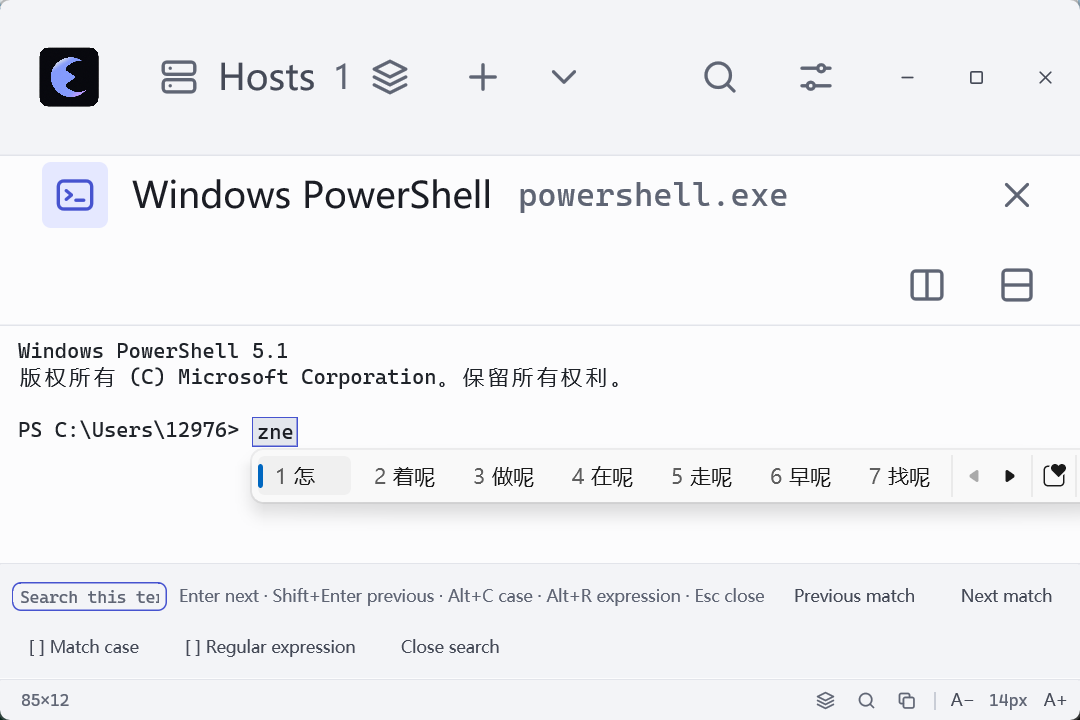
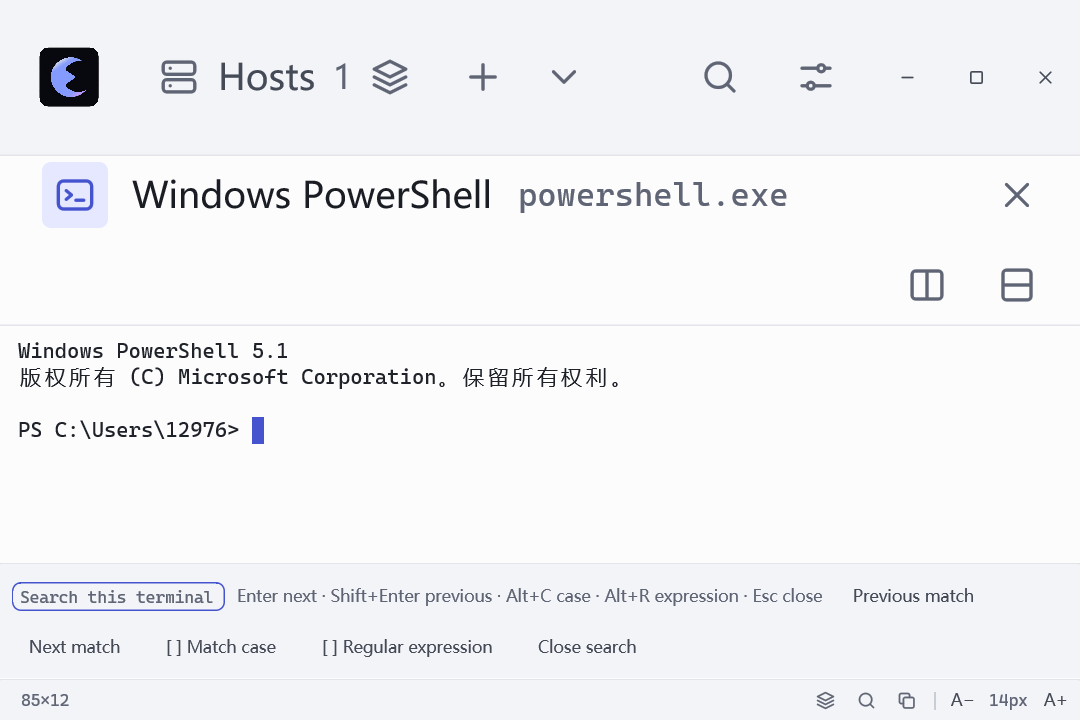
fix: 让最小窗口的搜索框和失败说明保持完整
Sakullla-Task: T1
Sakullla-Attempt: T1-A13

diff --git a/src/app/view/shell.rs b/src/app/view/shell.rs
@@ -1685,10 +1685,12 @@ impl ShelluneView {
     ) -> Div {
         let metrics = self.metrics();
         let viewport = window.viewport_size();
-        let width = metrics
-            .scale(width)
-            .min(viewport.width - metrics.scale(spacing::LOOSE) * 2.0);
-        let max_height = viewport.height - metrics.scale(spacing::LOOSE) * 2.0;
+        // The inset stays a small edge gap. Scaling it with the text turned a 200%
+        // minimum window into a short dialog, and the failure's next line was drawn
+        // past the client edge where it could not be read (R4).
+        let margin = metrics.scale(spacing::LOOSE).min(px(16.0));
+        let width = metrics.scale(width).min(viewport.width - margin * 2.0);
+        let max_height = viewport.height - margin * 2.0;
         let dialog = div()
             .id(id)
             .debug_selector(move || id.to_owned())
@@ -1886,9 +1888,7 @@ impl ShelluneView {
                 .pb(metrics.scale(spacing::LOOSE))
                 .child(self.quick_panel(cx))
                 .into_any_element();
-            return Some(self.modal(
-                window, "quick.dialog", 520.0, header, subtitle, body, None,
-            ));
+            return Some(self.modal(window, "quick.dialog", 520.0, header, subtitle, body, None));
         }
         if !(self.showing_connection_form && self.remote.is_some()) {
             return None;
@@ -1898,10 +1898,10 @@ impl ShelluneView {
         let (status_label, tone) = super::remote_status_label(panel.status(), strings);
         // The hint is about choosing a sign-in; while the server asks a question or
         // the connection runs, it would only be in the way.
-        let choosing = matches!(
-            panel.status(),
-            crate::app::remote::RemoteStatus::Idle | crate::app::remote::RemoteStatus::Failed(_)
-        );
+        // A failure already says what happened and what to do next. The sign-in hint
+        // on top of it pushed that next line past the window (R4).
+        let choosing = matches!(panel.status(), crate::app::remote::RemoteStatus::Idle);
+        let failed = matches!(panel.status(), crate::app::remote::RemoteStatus::Failed(_));
         let (header, subtitle) = self.modal_header_with(
             None,
             format!("{} {}", ux.connect_title, host.name()),
@@ -1916,15 +1916,22 @@ impl ShelluneView {
             .w_full()
             .items_start()
             .pl(metrics.scale(spacing::LOOSE))
+            .child(div().pt(metrics.scale(spacing::SNUG)).child(host_avatar(
+                host.name(),
+                false,
+                metrics,
+            )))
             .child(
-                div()
-                    .pt(metrics.scale(spacing::SNUG))
-                    .child(host_avatar(host.name(), false, metrics)),
-            )
-            .child(header.flex_1().min_w(px(0.0)).pl(metrics.scale(spacing::SNUG)));
+                header
+                    .flex_1()
+                    .min_w(px(0.0))
+                    .pl(metrics.scale(spacing::SNUG)),
+            );
         let body = div()
             .flex()
             .flex_col()
+            .w_full()
+            .min_w(px(0.0))
             .gap(metrics.scale(spacing::SNUG))
             .px(metrics.scale(spacing::LOOSE))
             .pb(metrics.scale(spacing::LOOSE))
@@ -1940,8 +1947,9 @@ impl ShelluneView {
             .child(self.other_attempts(cx))
             .into_any_element();
         // A connection that is already running can go on without the dialog: it keeps
-        // its tab, and clicking that tab brings the dialog back.
-        let footer = self.form_session.is_some().then(|| {
+        // its tab, and clicking that tab brings the dialog back. A failure is finished,
+        // so that button would only take the room the reason and the next step need.
+        let footer = (self.form_session.is_some() && !failed).then(|| {
             div()
                 .flex()
                 .justify_end()
@@ -1958,7 +1966,13 @@ impl ShelluneView {
                 ))
         });
         Some(self.modal(
-            window, "remote.dialog", 600.0, header, subtitle, body, footer,
+            window,
+            "remote.dialog",
+            600.0,
+            header,
+            subtitle,
+            body,
+            footer,
         ))
     }
 
@@ -2139,9 +2153,7 @@ impl ShelluneView {
                         cx,
                     ))
                     .into_any_element();
-                Some(self.modal(
-                    window, "forwards.dialog", 680.0, header, hint, body, None,
-                ))
+                Some(self.modal(window, "forwards.dialog", 680.0, header, hint, body, None))
             }
             Tool::Transfers => {
                 let (header, subtitle) = self.modal_header(

diff --git a/src/app/tests.rs b/src/app/tests.rs
@@ -3060,6 +3060,16 @@ async fn the_find_bar_stays_inside_the_window_at_two_hundred_percent(cx: &mut Te
     );
 
     click(cx, "terminal.search");
+    cx.run_until_parked();
+    let query = bounds_of(cx, "terminal.search.query");
+    // The find bar uses the terminal metrics, which stay at the regular size.
+    let placeholder = px("Search this terminal".chars().count() as f32
+        * (Metrics::new(Zoom::Regular).caption_size() / px(1.0))
+        * shellune_terminal::MONOSPACE_ADVANCE_RATIO);
+    assert!(
+        query.size.width + px(1.0) >= placeholder,
+        "the empty search field cuts the placeholder through a word: {query:?} needs {placeholder:?}"
+    );
     cx.simulate_input("ready");
     cx.run_until_parked();
     assert_eq!(
@@ -5822,6 +5832,70 @@ async fn an_attempt_that_fails_shows_the_reason_and_opens_no_terminal(cx: &mut T
                 .iter()
                 .any(|recent| recent.connections() > 0),
             "a failed attempt is not a recent connection"
+        );
+    });
+}
+
+/// A hop rejection names the host and then the credential error.
+///
+/// That sentence is wider than one line of a 720×480 window at 200% text. It has to
+/// wrap inside the dialog, and both it and the next step have to be inside the
+/// window: the previous line used to end at "offered" and the rest was past the
+/// client edge (R4).
+#[gpui::test]
+async fn a_rejected_hop_reason_and_its_next_step_fit_the_minimum_window(cx: &mut TestAppContext) {
+    let dir = TempDir::new("remote-hop-reason");
+    seed(
+        &dir.store(),
+        vec![stored_host("lan109", "192.168.0.109", 22, "root", None)],
+    );
+    let (view, cx) = hosts_view_with_trust(cx, &dir);
+    click(cx, "hosts.connect.0");
+    cx.simulate_resize(minimum_window());
+    largest_text_size(&view, cx);
+    cx.update(|_window, app| {
+        view.update(app, |view, cx| {
+            let host = view.book().hosts()[0].clone();
+            let failure = shellune_ssh::ChainFailure::Hop {
+                hop: Box::new(shellune_ssh::HopLocation {
+                    host_id: host.id(),
+                    index: 0,
+                    name: host.name().to_owned(),
+                    address: host.address().to_owned(),
+                    port: host.port().get(),
+                    user: host.user().to_owned(),
+                }),
+                error: Box::new(shellune_ssh::ConnectError::AuthRejected),
+            };
+            view.fail_chain_for_test(failure, cx);
+        });
+    });
+    cx.run_until_parked();
+
+    let viewport = cx.update(|window, _app| window.viewport_size());
+    let reason = bounds_of(cx, "remote.failure.reason");
+    let next = bounds_of(cx, "remote.failure.next");
+    assert_fits_inside(reason, viewport, "remote.failure.reason");
+    assert_fits_inside(next, viewport, "remote.failure.next");
+    assert!(
+        reason.size.height > px(36.0),
+        "the hop reason stayed on one line, which is how the window used to cut it: {reason:?}"
+    );
+    cx.update(|_window, app| {
+        let failure = view
+            .read(app)
+            .remote_state()
+            .and_then(|panel| panel.status().failure().cloned())
+            .expect("the dialog is showing the hop failure");
+        assert!(
+            failure.reason().contains("credentials"),
+            "the reason is the full rejection: {}",
+            failure.reason()
+        );
+        assert!(
+            failure.next_step().contains("authentication method"),
+            "the next step is still the credential one: {}",
+            failure.next_step()
         );
     });
 }

diff --git a/src/app/view.rs b/src/app/view.rs
@@ -5123,6 +5123,27 @@ impl ShelluneView {
         self.on_remote_failed(id, &error, cx);
     }
 
+    /// Records a jump-chain failure through the same path a hop uses.
+    ///
+    /// The chain text names the hop. A direct [`ConnectError`] does not, and that
+    /// longer line is what a 720×480 window at 200% text used to cut off.
+    #[cfg(test)]
+    pub(crate) fn fail_chain_for_test(
+        &mut self,
+        failure: shellune_ssh::ChainFailure,
+        cx: &mut Context<Self>,
+    ) {
+        let Some(host) = self.remote.as_ref().map(|panel| panel.host().clone()) else {
+            return;
+        };
+        let id = match self.reconnect.take() {
+            Some(id) => id,
+            None => self.workspace.register_remote_session(&host).id(),
+        };
+        self.form_session = Some(id);
+        self.on_chain_failed(id, &failure, cx);
+    }
+
     /// Tries again with whatever the form holds now.
     fn retry_remote(&mut self, cx: &mut Context<Self>) {
         if let Some(panel) = self.remote.as_mut() {
@@ -5881,7 +5902,7 @@ impl ShelluneView {
             column = column.child(
                 components::banner(Tone::Danger, metrics)
                     .gap(metrics.scale(spacing::HAIRLINE + 2.0))
-                    .py(metrics.scale(spacing::SNUG))
+                    .py(metrics.scale(spacing::HAIRLINE))
                     .debug_selector(|| "remote.failure".to_owned())
                     .child(
                         div()
@@ -5892,6 +5913,9 @@ impl ShelluneView {
                     )
                     .child(
                         div()
+                            .w_full()
+                            .min_w(px(0.0))
+                            .whitespace_normal()
                             .text_size(metrics.caption_size())
                             .text_color(theme::swatch(palette::TEXT_PRIMARY))
                             .debug_selector(|| "remote.failure.reason".to_owned())
@@ -5899,6 +5923,9 @@ impl ShelluneView {
                     )
                     .child(
                         div()
+                            .w_full()
+                            .min_w(px(0.0))
+                            .whitespace_normal()
                             .text_size(metrics.caption_size())
                             .text_color(theme::swatch(palette::TEXT_SECONDARY))
                             .debug_selector(|| "remote.failure.next".to_owned())

diff --git a/src/app/terminal.rs b/src/app/terminal.rs
@@ -2734,6 +2734,17 @@ impl TerminalPane {
 
         let focused = self.search_focused;
         let accent = theme::swatch(shell_palette::ACCENT);
+        // The placeholder is a sentence. A field that shrinks to a few letters and
+        // then truncates cuts it through a word ("Search this te"), and the pane
+        // has no other place that text is written (R4).
+        let caption = metrics.caption_size();
+        let proportional =
+            crate::app::components::reserved_text_width(strings.terminal_search, caption);
+        let mono = px(strings.terminal_search.chars().count() as f32
+            * (caption / px(1.0))
+            * shellune_terminal::MONOSPACE_ADVANCE_RATIO);
+        let query_text_floor = proportional.max(mono);
+        let query_field_floor = query_text_floor + metrics.scale(spacing::HAIRLINE) * 2.0 + px(2.0);
         let mut bar = div()
             .flex()
             .flex_wrap()
@@ -2748,8 +2759,11 @@ impl TerminalPane {
                 div()
                     .flex()
                     .items_center()
-                    .flex_1()
-                    .min_w(px(80.0))
+                    .when(empty_query, |field| {
+                        field.flex_none().min_w(query_field_floor)
+                    })
+                    .when(!empty_query, |field| field.flex_1().min_w(px(80.0)))
+                    .max_w_full()
                     .rounded(px(radius::SMALL))
                     .border_1()
                     .border_color(if focused {
@@ -2776,8 +2790,13 @@ impl TerminalPane {
                     .child(
                         div()
                             .flex_1()
-                            .min_w(px(0.0))
-                            .truncate()
+                            .min_w(if empty_query {
+                                query_text_floor
+                            } else {
+                                px(0.0)
+                            })
+                            .when(empty_query, |text| text.whitespace_normal())
+                            .when(!empty_query, |text| text.truncate())
                             .debug_selector(|| "terminal.search.query".to_owned())
                             .font_family(monospace_family())
                             .text_size(metrics.caption_size())

diff --git a/docs/design/02-shell-and-design-system.md b/docs/design/02-shell-and-design-system.md
@@ -530,17 +530,26 @@ shellune-viewport viewport_size=720x480 scale_factor=1.5 text_size=200%
 
 界面文字从这一进程一开始就是 200%。第一行是窗口刚出现时的视口。客户区随后被收成 1080×720
 物理像素（该窗口 dpi 144），进程改报 `viewport_size=720x480`、`scale_factor=1.5`。
-没有把窗口拉到别的尺寸。界面语言是英文。
+之后没有再改窗口尺寸。下面的图都是这最后一行出现之后、同一次进程的客户区。界面语言是英文。
 
-已保存主机 lan109（root@192.168.0.109:22）用本机私钥连了一次。对话框里能看见的指纹以
-`SHA256:XR6MByyOO2` 开头，与本机 OpenSSH known_hosts 里该地址的 ED25519 指纹开头一致。接受后服务器拒绝了所提供的密钥，
-对话框停在 Could not connect。看得见的原因是 hop 1 "lan109" (root@192.168.0.109:22) failed: the server rejected the offered，
-下一行被窗口裁切；下一步是 Check the credentials, or change the authentication method。没有再试。
-因此没有传输失败图，也没有这次进程的 X11 失败图。macOS 没有实窗。Linux 上也没有把本应用窗口打开在 root@192.168.0.109 的显示 :1 上。
+- `windows-720x480-200-settings-theme.png`：主题分段 System、Light、Dark 都完整，说明是整句
+  “Follow the system, or stay light or dark”。
+- `windows-720x480-200-settings-shell.png`：默认 Shell 的三个名称都完整，Windows PowerShell、
+  PowerShell 7、Command Prompt。
+- `windows-720x480-200-settings-keys.png`：快捷键行里的 keycap、Change、Unbind 都完整。Go to hosts
+  这一行整行都在窗口内。
+- `windows-720x480-200-terminal-search.png`：搜索框是整句 “Search this terminal”，会话名
+  Windows PowerShell 和 powershell.exe 都完整。
+- `windows-720x480-200-tab-overflow.png`：全部标签对话框。副标题是整句
+  “Every open tab, in strip order. Choosing one shows it.”
+- `windows-720x480-200-shortcut-commands.png`：快捷命令对话框。副标题是整句
+  “Insert types a command into the active terminal. Run also submits it, once.”
+  New shortcut command 和 Close 都在。
 
-同一天较早一次进程留下的连接、主题、默认 Shell、快捷键和搜索图不是这次视口记录之后截的，不能当作这次的传输失败或 X11 失败。
+主机簿里没有已保存的 lan109。没有再试本机私钥，也没有打开 root@212.60.153.19，所以这次没有连接对话框，
+没有传输失败图，也没有 X11 失败图。macOS 没有实窗。Linux 上没有把本应用窗口打开在显示 :1 上。
 
-设置页换行没有改。`SHELLUNE_LOG_VIEWPORT` 默认仍关闭，只有这次进程设了 `=1`。
+标题换行、副标题换行和设置页换行都没有改回去。`SHELLUNE_LOG_VIEWPORT` 默认仍关闭，只有这次进程设了 `=1`。
 
 ### 输入框（`text_field.rs`）
 
